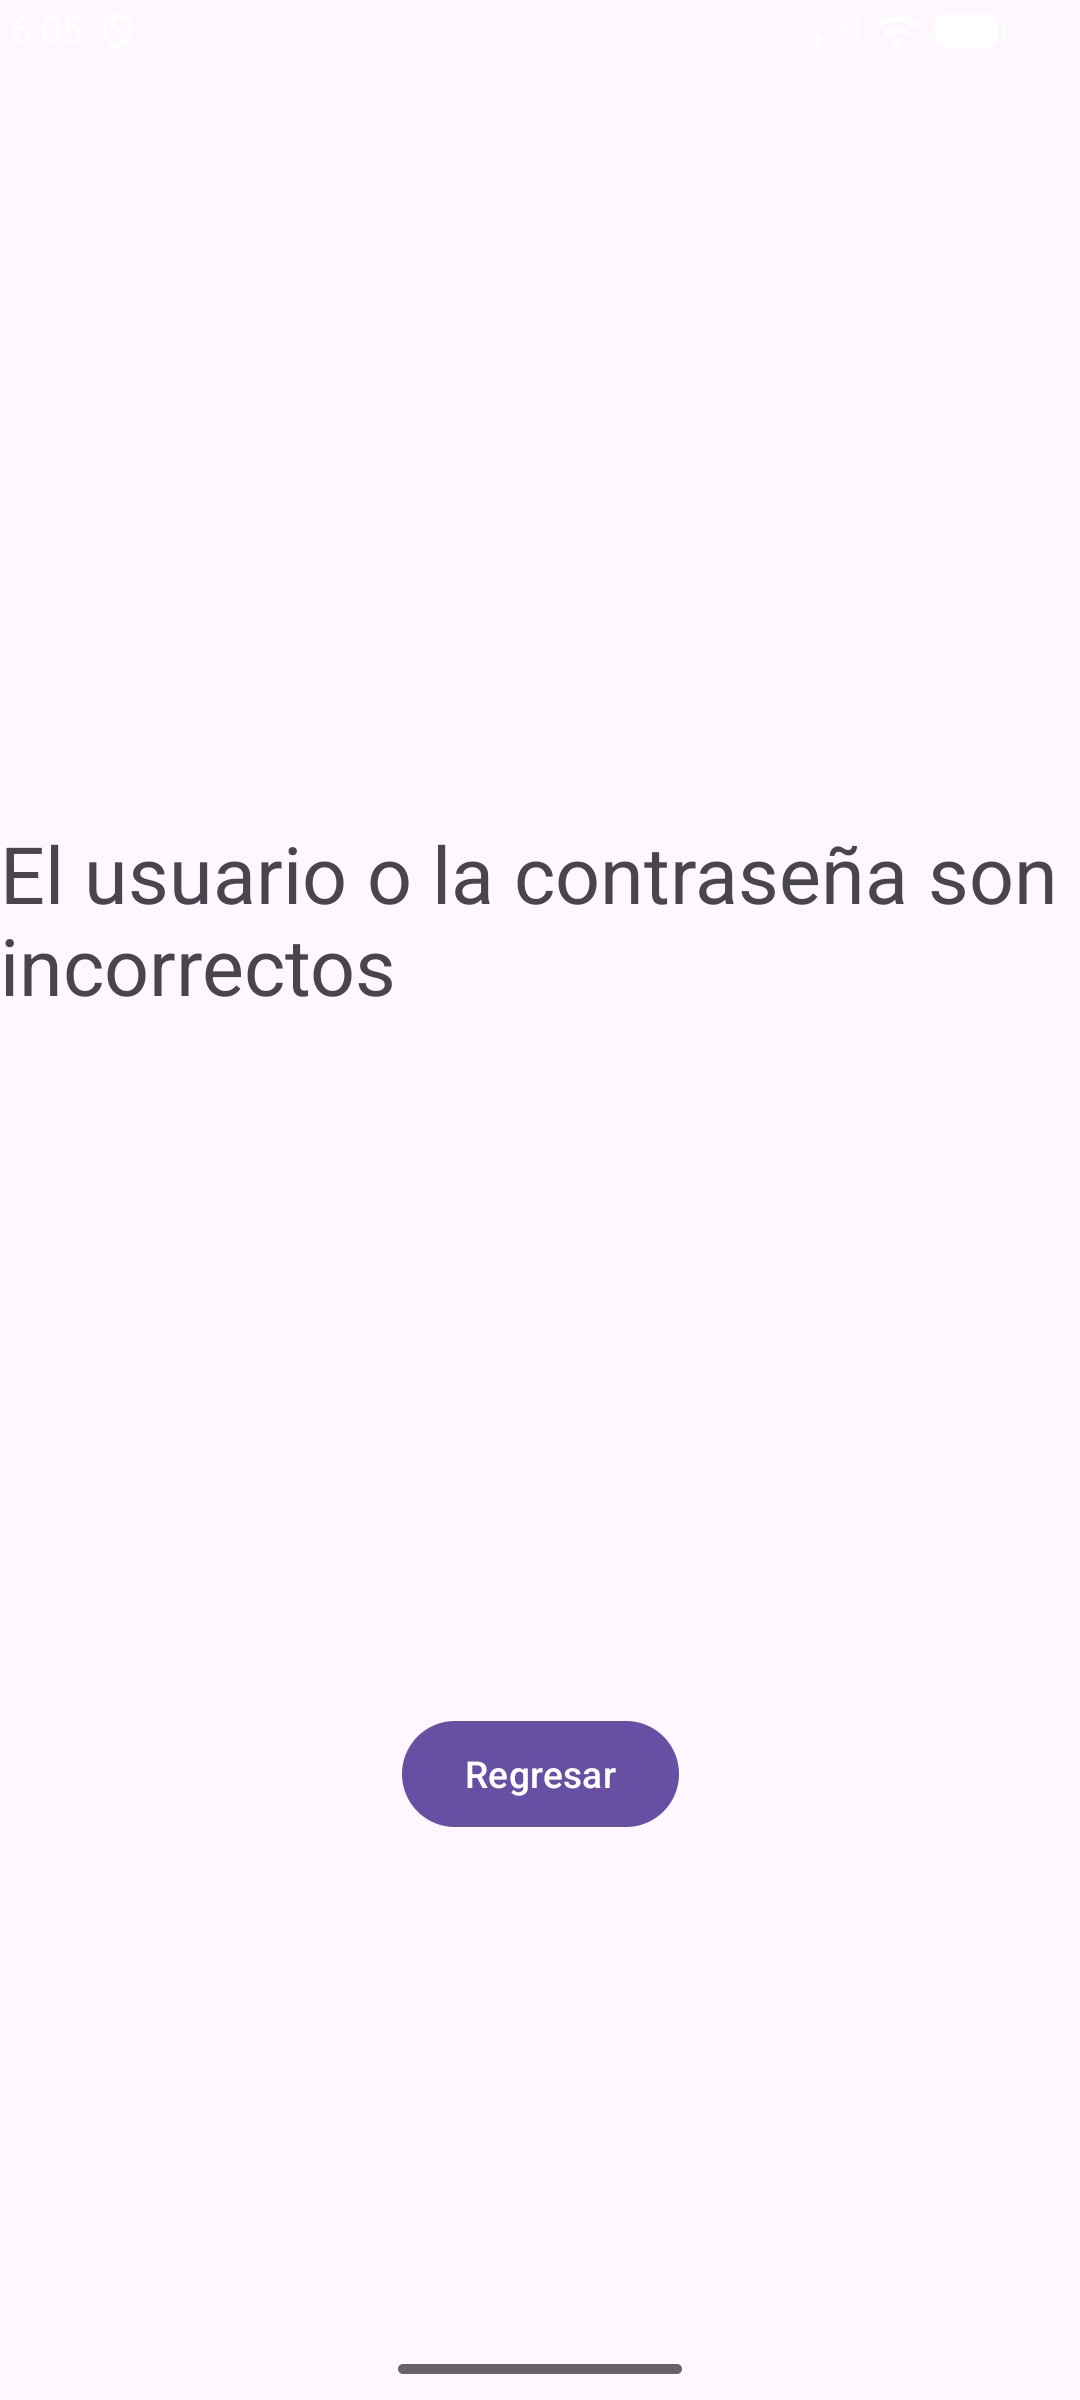
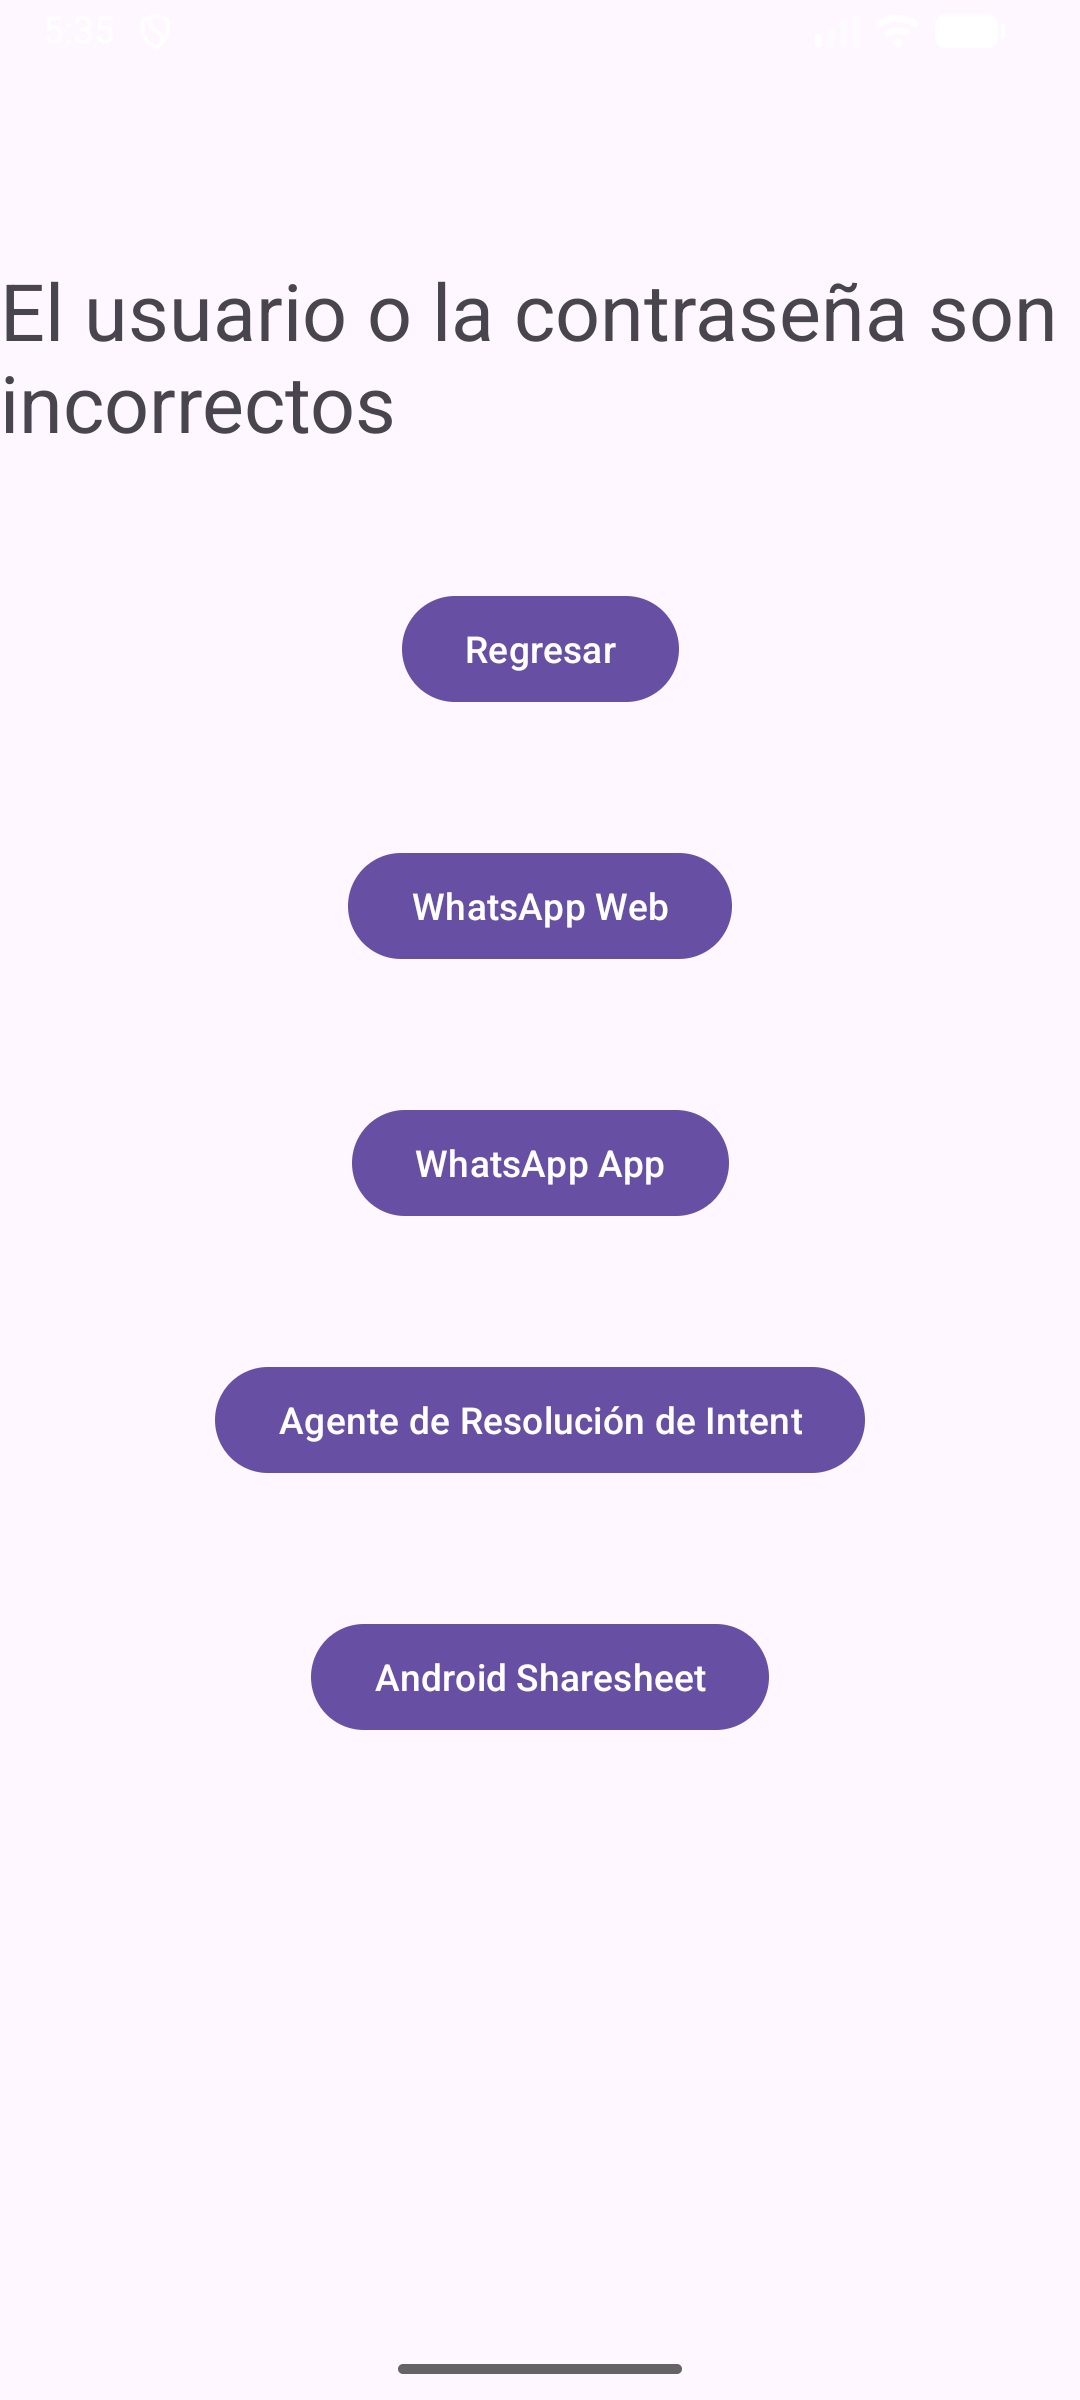
Se modificó la segunda Activity para agregar botones con distintas formas del uso de Intent implicitos

diff --git a/app/src/main/java/com/example/a2026_ii_comunicacionestreactivities/PricipalActivity.kt b/app/src/main/java/com/example/a2026_ii_comunicacionestreactivities/PricipalActivity.kt
@@ -5,6 +5,7 @@ import android.net.Uri
 import android.os.Bundle
 import android.widget.Button
 import android.widget.TextView
+import android.widget.Toast
 import androidx.activity.enableEdgeToEdge
 import androidx.appcompat.app.AppCompatActivity
 import androidx.core.view.ViewCompat
@@ -18,49 +19,87 @@ class PricipalActivity : AppCompatActivity() {
         super.onCreate(savedInstanceState)
                 setContentView(R.layout.activity_pricipal)
 
+        val mensaje = findViewById<TextView>(R.id.tv_mesaje)
+        if(intent != null)
+        {
+            //Se recibe los datos del Intent
+            val login = intent.getStringExtra(MainActivity.MAIN_LOGIN_KEY)
+            val passwd = intent.getStringExtra(MainActivity.MAIN_PASSWD_KEY)
+            if (!login.equals(PricipalActivity.login) || !passwd.equals(PricipalActivity.passwd))
+                mensaje.text = "El usuario o la contraseña son incorrectos"
+            else
+                mensaje.text = "Has inciado seción!"
+        }
+
+        //-------------------------------------------------
+        //Se cierra la Activity y regresa a la Activity previa en el Stack
+        //-------------------------------------------------
         val boton = findViewById<Button>(R.id.boton2)
         boton.setOnClickListener {
-            //Regrea a la actividad anterior
-            //finish()
+            finish()
+        }
 
+        //---------------------------------------------
+        //Se abre la p+agina web de WhatsApp para enviar
+        // o compartir texto o imágenes
+        //---------------------------------------------
+        val botonWhatsAppWeb = findViewById<Button>(R.id.botonWhatsAppWeb)
+        botonWhatsAppWeb.setOnClickListener {
 
-            
             // Se abre el navegador con la pagina de WhatsApp
-            /*
-            val numero = "5512345678"
+            val numero = "5512345678" //Número de registro de WhatsApp
             val uri = Uri.parse("https://wa.me/" + numero)
             val intent = Intent(Intent.ACTION_VIEW, uri)
             startActivity(intent)
+        }
 
-             */
+        //---------------------------------------------
+        //Se abre directamente la aplicación de WhatsApp para enviar
+        // o compartir texto o imágenes
+        //---------------------------------------------
+        val botonWhatsApp = findViewById<Button>(R.id.botonWhatsApp)
+        botonWhatsApp.setOnClickListener {
 
-            //Abre directamente la aplicación de WhatsApp para enviar el texto
-            /*
-            val sendIntent =  Intent(Intent.ACTION_SEND)
-            sendIntent.putExtra(Intent.EXTRA_TEXT, "Este el el texto que se enviará a la aplicación.")
+            val sendIntent = Intent(Intent.ACTION_SEND)
+            sendIntent.putExtra(
+                Intent.EXTRA_TEXT,
+                "Este el el texto que se enviará a la aplicación."
+            )
             sendIntent.setType("text/plain")
             sendIntent.setPackage("com.whatsapp")
-            startActivity(sendIntent);
-             */
+            if (sendIntent.resolveActivity(packageManager) != null)
+                startActivity(sendIntent)
+            else Toast.makeText(this,
+                "La aplicción WhatsApp no está instalada",
+                Toast.LENGTH_LONG).show()
 
+        }
 
-            //Si varias aplicaciones coinciden con la acción ACTION_SEND
-            // Se abrirá el dialogo Agente de Resolución de Intent para
-            // que se seleccione una aplicación destino
-            //En el siguiente código se muestra este ejemplo
-            /*
+        //---------------------------------------------
+        //Si varias aplicaciones coinciden con la acción ACTION_SEND
+        // Se abrirá el dialogo Agente de Resolución de Intent para
+        // que se seleccione una aplicación destino
+        //En el siguiente código se muestra este ejemplo
+        //---------------------------------------------
+        val botonSendAgen = findViewById<Button>(R.id.botonSendAgen)
+        botonSendAgen.setOnClickListener {
             val sendIntent =  Intent(Intent.ACTION_SEND)
             sendIntent.putExtra(Intent.EXTRA_TEXT, "Este el el texto que se enviará a la aplicación.")
             sendIntent.setType("text/plain")
             startActivity(sendIntent)
-             */
+        }
 
+        //---------------------------------------------
+        //Se puede utilizar Android Sharesheet
+        // en lugar del Agente de Resolución de Intent
+        // para seleccionar una aplicación destino
+        //tiene mejores funcionalidades para desarrolladores
+        //En el siguiente código se muestra este ejemplo
+        //---------------------------------------------
 
-            //Se puede utilizar Android Sharesheet
-            // en lugar del Agente de Resolución de Intent
-            // para seleccionar una aplicación destino
-            //tiene mejores funcionalidades para desarrolladores
-            //En el siguiente código se muestra este ejemplo
+        val botonSharesheet = findViewById<Button>(R.id.botonSharesheet)
+        botonSharesheet.setOnClickListener {
+
             val sendIntent =  Intent(Intent.ACTION_SEND)
             sendIntent.putExtra(Intent.EXTRA_TEXT, "Este es el texto que se debe enviar")
             sendIntent.setType("text/plain")
@@ -68,19 +107,6 @@ class PricipalActivity : AppCompatActivity() {
             var shareIntent = Intent.createChooser(sendIntent, null)
             startActivity(shareIntent);
 
-        }
-
-        val mensaje = findViewById<TextView>(R.id.tv_mesaje)
-
-        if(intent != null)
-        {
-            //Se recibe el Intent
-            val login = intent.getStringExtra(MainActivity.MAIN_LOGIN_KEY)
-            val passwd = intent.getStringExtra(MainActivity.MAIN_PASSWD_KEY)
-            if (!login.equals(PricipalActivity.login) || !passwd.equals(PricipalActivity.passwd))
-                mensaje.text = "El usuario o la contraseña son incorrectos"
-            else
-                mensaje.text = "Has inciado seción!"
         }
 
 

diff --git a/README.md b/README.md
@@ -10,12 +10,13 @@ los compara con valores guardados como constantes en on companion object.
 El ejercicio se elaboró para mostrar el uso del diseño con LinearyLayout
 y ConstraintLayout; también se mostró el uso de Intent Explicitos donde se 
 abre la segunda Activity. En la segunda Activity, se programó 
-el botón para los siguientes acciones:
-- Regresar a la Activity previa: temas tratados Tareas y la pila de activities
-- Enviar datos a otra Aplicación: temas tratados Intent Implicitos
-- Se enviaron datos para abir el navegador por defecto
-- Se enviaron datos para compartirlo a WhatsApp
-- Se empleo el Agente de Resolución de Intent y Android Sharesheet
+notones para los siguientes acciones:
+- Regresar a la Activity previa:  (temas: Task y la pila de activities)
+- Enviar datos a otra Aplicación Agente de resolución de Intents: (temas tratados Intent Implicitos)
+- Se enviaron datos para abrir el navegador y compartir en WhatsApp Web 
+- Se enviaron datos para compartirlo WhatsApp
+- Se emplea el Agente de Resolución de Intent 
+- Se emplea Android Sharesheet
 
 La aplicación utiliza los controles: **LinearLayout**, **TextView**, **EditText**, **Button**, **Toast**.
 Se utilizaron los objetos **Intent** Implicitos y Explicitos
